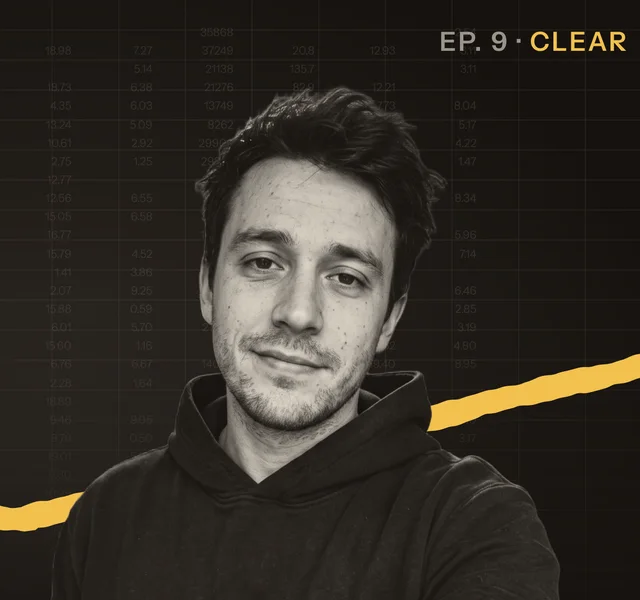
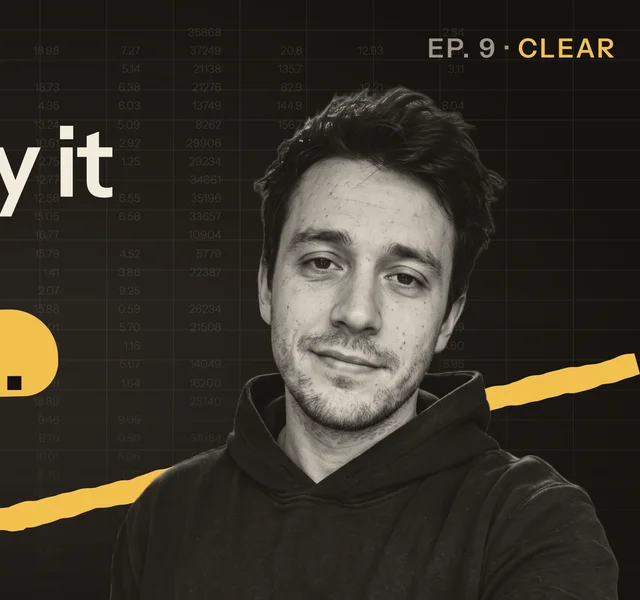
Re-cut the TradersMood cards from the updated Figma cover
The re-export moved the headline and the portrait, so the old hard-coded
crop centre would have sliced the guest's face. tools/tradersmood-cards.py
now measures the portrait centre from the source and cuts all four sizes
from it.

diff --git a/index.html b/index.html
@@ -218,9 +218,9 @@
           <div class="f-frame">
             <picture>
               <source media="(min-width: 861px)" sizes="46vw"
-                      srcset="images/card/tradersmood-wide-800.webp?v=0745609b 800w, images/card/tradersmood-wide-1600.webp?v=1a2ac2a0 1600w">
-              <img src="images/card/tradersmood-640.webp?v=ccc72338"
-                   srcset="images/card/tradersmood-640.webp?v=ccc72338 640w, images/card/tradersmood-320.webp?v=49a5bb7e 320w"
+                      srcset="images/card/tradersmood-wide-800.webp?v=2c704f5e 800w, images/card/tradersmood-wide-1600.webp?v=9eb985e3 1600w">
+              <img src="images/card/tradersmood-640.webp?v=00b96252"
+                   srcset="images/card/tradersmood-640.webp?v=00b96252 640w, images/card/tradersmood-320.webp?v=1a9916cb 320w"
                    sizes="(max-width: 860px) calc(100vw - 40px), 46vw"
                    alt="A TradersMood episode cover: the guest in black and white against a dark wall of ticker numbers, EP. 9 CLEAR top right and a hand-drawn yellow line crossing behind him" width="640" height="600" loading="lazy" decoding="async">
             </picture>

diff --git a/tools/tradersmood-cards.py b/tools/tradersmood-cards.py
@@ -1,0 +1,62 @@
+#!/usr/bin/env python3
+"""Build the four TradersMood card images from one Figma export.
+
+The cover is re-exported from Figma whenever the design changes, so this
+keeps the derivation in one place instead of being re-derived by hand.
+
+  python3 tools/tradersmood-cards.py <export.png>
+
+Wide variants are the whole 16:9 cover. The 640 and 320 are cropped tight
+on the guest, matching how the card was framed originally. The crop centre
+is MEASURED, not fixed: the portrait moved from 0.689 to 0.745 of the width
+between two exports, and a hardcoded centre would have sliced his face off.
+"""
+import subprocess, sys, os
+import numpy as np
+from PIL import Image
+
+OUT = "images/card"
+SIZES = [(1600, 900, "wide-1600"), (800, 450, "wide-800"), (640, 600, "640"), (320, 300, "320")]
+
+
+def portrait_centre(im):
+    """Horizontal centre of the guest, as a fraction of width.
+
+    He is the one large near-neutral bright mass. The headline is bright
+    too, so only the right half is considered, and only the upper band
+    where the head sits rather than the full figure.
+    """
+    a = np.asarray(im, dtype=int)
+    h, w, _ = a.shape
+    neutral = (np.abs(a[..., 0] - a[..., 1]) < 22) & (np.abs(a[..., 1] - a[..., 2]) < 22)
+    mask = neutral & (a.mean(axis=2) > 95)
+    band = mask[int(h * 0.12):int(h * 0.55), w // 2:].sum(axis=0)
+    peak = int(np.argmax(np.convolve(band, np.ones(120) / 120, mode="same")))
+    return (w // 2 + peak) / w
+
+
+def main(src_path):
+    src = Image.open(src_path).convert("RGB")
+    W, H = src.size
+    cx_frac = portrait_centre(src)
+    print("  source %dx%d, portrait centre at %.3f of width" % (W, H, cx_frac))
+
+    for w, h, name in SIZES:
+        if w / h > 1.5:                       # the wide pair is the whole cover
+            img = src.resize((w, h), Image.LANCZOS)
+        else:
+            cw = int(H * (w / h))
+            x0 = max(0, min(W - cw, int(W * cx_frac) - cw // 2))
+            img = src.crop((x0, 0, x0 + cw, H)).resize((w, h), Image.LANCZOS)
+        png = "/tmp/tm-%s.png" % name
+        img.save(png)
+        out = os.path.join(OUT, "tradersmood-%s.webp" % name)
+        subprocess.run(["cwebp", "-q", "84", "-quiet", png, "-o", out], check=True)
+        os.remove(png)
+        print("  %-42s %dx%d  %d KB" % (out, w, h, os.path.getsize(out) // 1024))
+
+
+if __name__ == "__main__":
+    if len(sys.argv) != 2:
+        sys.exit("usage: tradersmood-cards.py <export.png>")
+    main(sys.argv[1])
